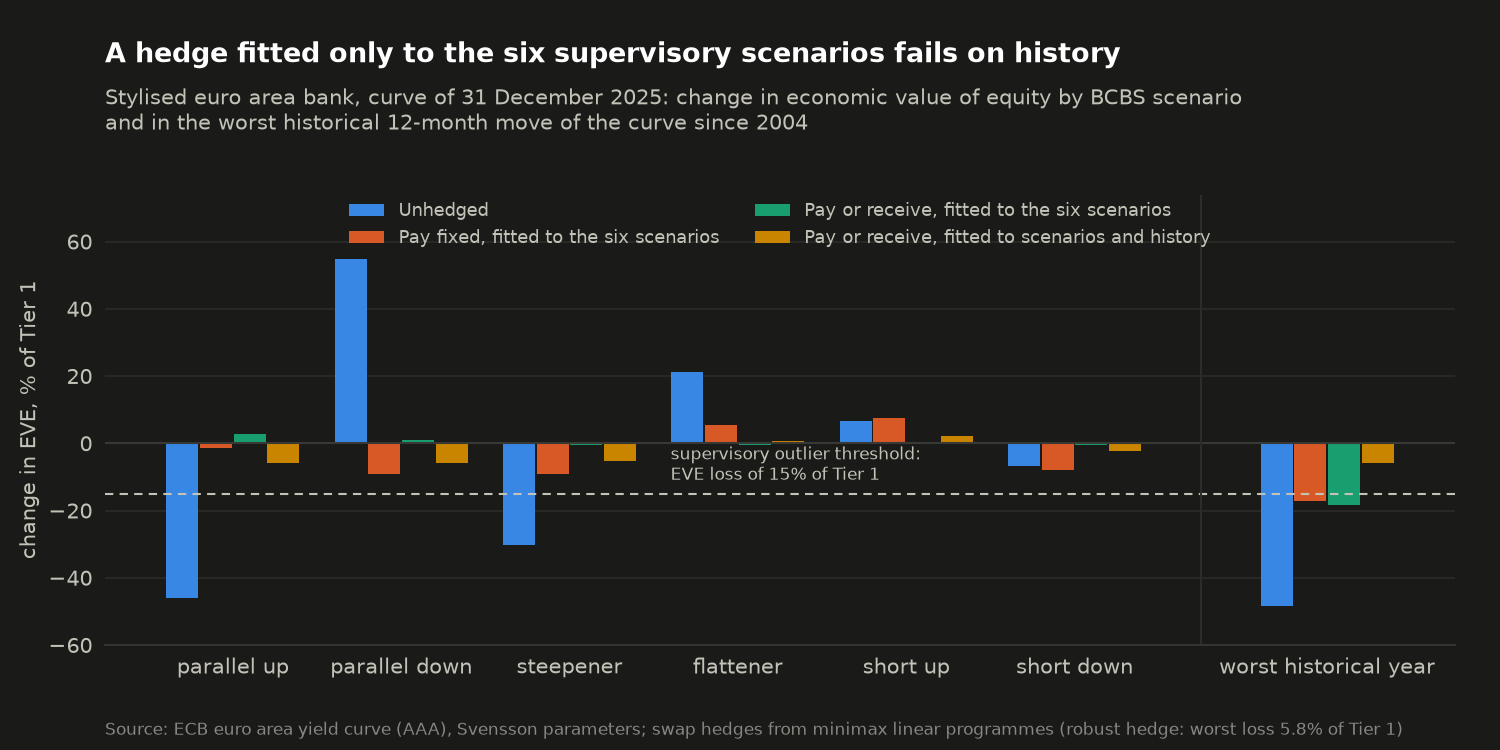
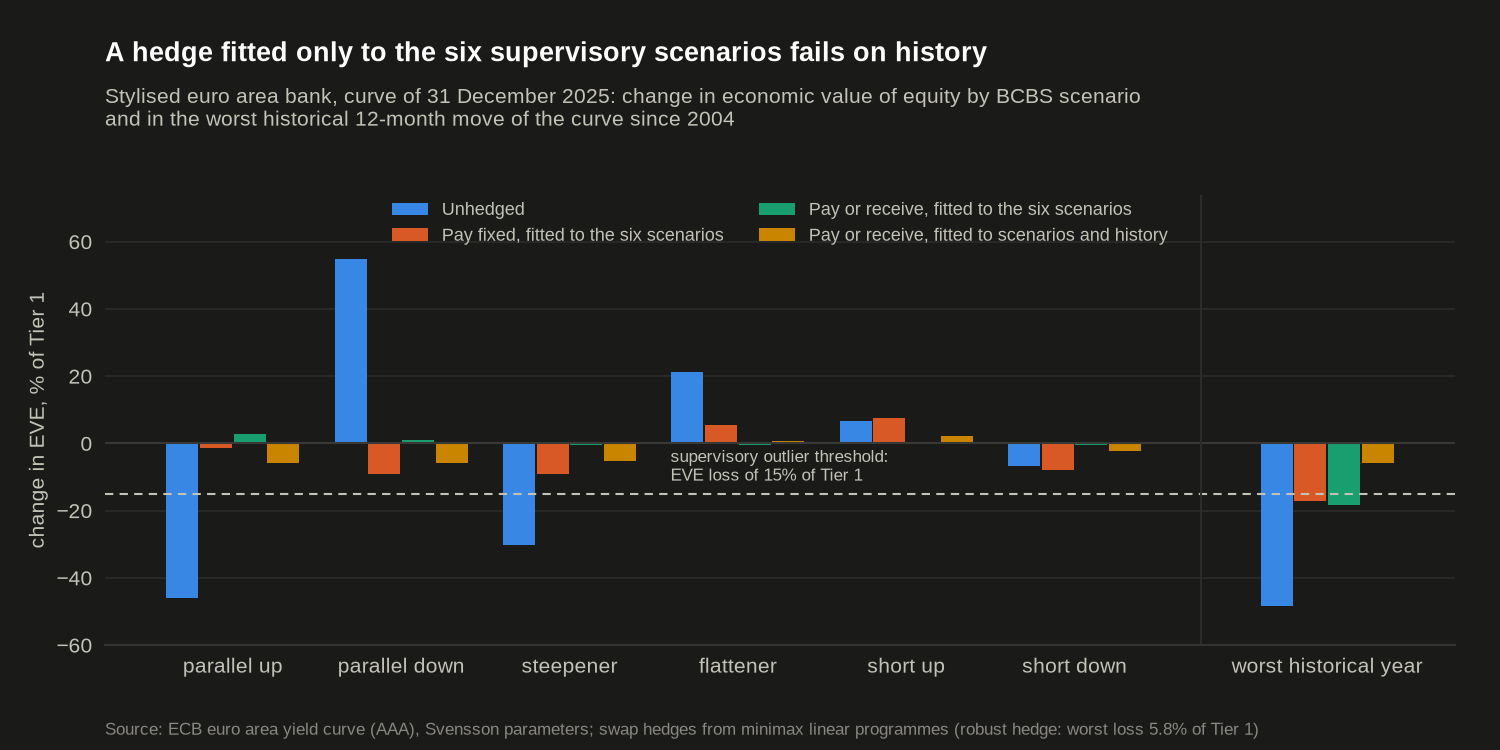
Modernise the chart style and add headline helpers
A neo-grotesque sans stack (Helvetica/Arial metrics, DejaVu Sans as the last
resort), a clearer type hierarchy, 1.5 pt lines and surface gaps between
touching fills. New notebook helpers: a bold takeaway headline with a
subtitle for the measure and units, a figure-level headline for small
multiples, direct end labels and value labels inside bar segments. The README
figures are redrawn in the new typeface with unchanged data.

Claude-Session: https://claude.ai/code/session_011MrWtf8yCZFcdASRPb3Zx8

diff --git a/scripts/quant_engine/quant_engine/figstyle.py b/scripts/quant_engine/quant_engine/figstyle.py
@@ -31,12 +31,15 @@ THEMES = {
 }
 
 WIDTH, DPI = 10.0, 150
+# A neo-grotesque sans stack: the first family installed is used (Liberation Sans and FreeSans are metric clones of
+# Arial and Helvetica available on most Linux systems); DejaVu Sans, bundled with matplotlib, is the last resort.
+SANS = ["Inter", "Helvetica Neue", "Helvetica", "Arial", "Liberation Sans", "FreeSans", "DejaVu Sans"]
 
 
 def rc(t: dict) -> dict:
     return {
         "figure.facecolor": t["surface"], "axes.facecolor": t["surface"], "savefig.facecolor": t["surface"],
-        "font.family": "sans-serif", "font.size": 10,
+        "font.family": "sans-serif", "font.sans-serif": SANS, "font.size": 10,
         "text.color": t["ink"], "axes.labelcolor": t["ink2"], "xtick.color": t["muted"], "ytick.color": t["muted"],
         "xtick.labelcolor": t["ink2"], "ytick.labelcolor": t["ink2"],
         "axes.edgecolor": t["axis"], "axes.linewidth": 0.8, "axes.grid": True, "axes.grid.axis": "y",
@@ -134,16 +137,78 @@ ORDINAL = ["#86b6ef", "#5598e7", "#2a78d6", "#1c5cab", "#104281"]   # one hue, l
 
 
 def notebook_style(dpi: int = 110) -> None:
-    """Matplotlib defaults for the notebooks: the light theme of the README charts (validated categorical
-    order, solid hairline grid behind the marks, no top or right spine, frameless legends, left-aligned
-    titles) and constrained layout, so that legends placed outside the axes, for example with
-    ``fig.legend(loc="outside lower center")``, never overlap titles, labels or data."""
+    """Matplotlib defaults for the notebooks, matching the README charts.
+
+    - validated categorical order, never cycled;
+    - neo-grotesque sans type with a clear hierarchy: a bold headline (see `headline`), a lighter subtitle, panel
+      titles and axis text in secondary ink;
+    - solid hairline grid behind the marks, no top, right or left spine, no tick marks;
+    - 1.5 pt lines, a thin surface-coloured edge on every bar and patch so that touching fills are separated by a
+      gap rather than an outline;
+    - frameless legends and constrained layout, so that legends placed outside the axes, for example with
+      ``fig.legend(loc="outside lower center")``, and direct labels never overlap titles, labels or data.
+    """
     import matplotlib as mpl
 
     params = rc(NOTEBOOK)
-    params.update({"figure.dpi": dpi, "figure.constrained_layout.use": True, "axes.titlesize": 11,
-                   "axes.titlelocation": "left", "axes.titlepad": 8, "legend.fontsize": 8.5})
+    params.update({
+        "figure.dpi": dpi, "figure.constrained_layout.use": True,
+        "figure.constrained_layout.h_pad": 0.06, "figure.constrained_layout.w_pad": 0.06,
+        "figure.titlesize": 13, "figure.titleweight": "bold",
+        "axes.titlesize": 10.5, "axes.titlelocation": "left", "axes.titlepad": 8, "axes.titlecolor": NOTEBOOK["ink2"],
+        "axes.labelsize": 9, "xtick.labelsize": 8.5, "ytick.labelsize": 8.5,
+        "legend.fontsize": 8.5, "legend.handlelength": 1.4, "legend.columnspacing": 1.6,
+        "lines.linewidth": 1.5, "patch.force_edgecolor": True, "patch.edgecolor": NOTEBOOK["surface"],
+        "patch.linewidth": 1.0,
+    })
     mpl.rcParams.update(params)
+
+
+def headline(ax, title: str, subtitle: str | None = None) -> None:
+    """Bold takeaway title and a lighter subtitle (what is plotted, in which units), left-aligned above `ax`.
+
+    Both are artists of the axes, so constrained layout reserves room for them. Keep the subtitle to one line.
+    """
+    pad = 8.0
+    if subtitle:
+        ax.annotate(subtitle, (0, 1), xycoords="axes fraction", xytext=(0, 7), textcoords="offset points",
+                    ha="left", va="bottom", fontsize=9.5, color=NOTEBOOK["ink2"], annotation_clip=False)
+        pad = 7 + 9.5 * 1.3 + 6
+    ax.set_title(title, loc="left", fontsize=12.5, fontweight="bold", color=NOTEBOOK["ink"], pad=pad)
+
+
+def figure_headline(fig, title: str) -> None:
+    """Bold takeaway title over a multi-panel figure; the panel titles say what each panel shows."""
+    fig.suptitle(title, x=0.01, ha="left", fontsize=13, fontweight="bold", color=NOTEBOOK["ink"])
+
+
+def label_ends(ax, series: dict, colors: dict, fmt=None, min_gap: float = 12.0) -> None:
+    """Direct labels at the right end of line series.
+
+    `series` maps a name to a pandas Series; each label is a dot with a surface ring on the last point and the name
+    (and, with `fmt`, the last value) in neutral ink. Labels are spread vertically to at least `min_gap` points.
+    """
+    names = list(series)
+    ends = [(series[n].index[-1], float(series[n].iloc[-1])) for n in names]
+    offsets = label_offsets(ax, [y for _, y in ends], min_gap=min_gap)
+    for name, (x, y), dy in zip(names, ends, offsets):
+        text = name if fmt is None else f"{name}  {fmt(y)}"
+        end_label(ax, NOTEBOOK, x, y, text, colors[name], dy=dy)
+
+
+def label_bar_segments(ax, bars, values, fmt, min_value: float) -> None:
+    """Value labels centred inside horizontal bar segments that are wide enough (`values` >= `min_value`), in
+    white or ink according to the luminance of the fill; smaller segments are left to the legend and the table."""
+    from matplotlib.colors import to_rgb
+
+    for bar, value in zip(bars, values):
+        if value < min_value:
+            continue
+        r, g, b = (c / 12.92 if c <= 0.04045 else ((c + 0.055) / 1.055) ** 2.4 for c in to_rgb(bar.get_facecolor()))
+        luminance = 0.2126 * r + 0.7152 * g + 0.0722 * b
+        ink = NOTEBOOK["ink"] if luminance > 0.18 else "white"
+        ax.text(bar.get_x() + bar.get_width() / 2, bar.get_y() + bar.get_height() / 2, fmt(value), ha="center",
+                va="center", fontsize=8, color=ink)
 
 
 def ordinal_colors(n: int) -> list:
